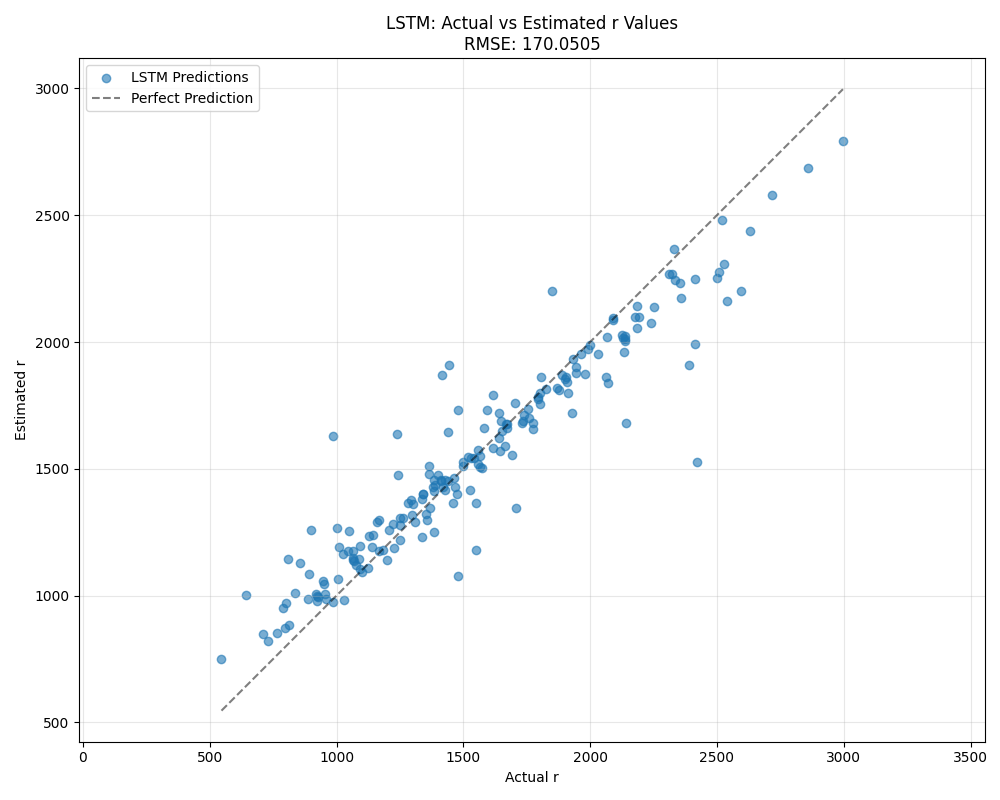
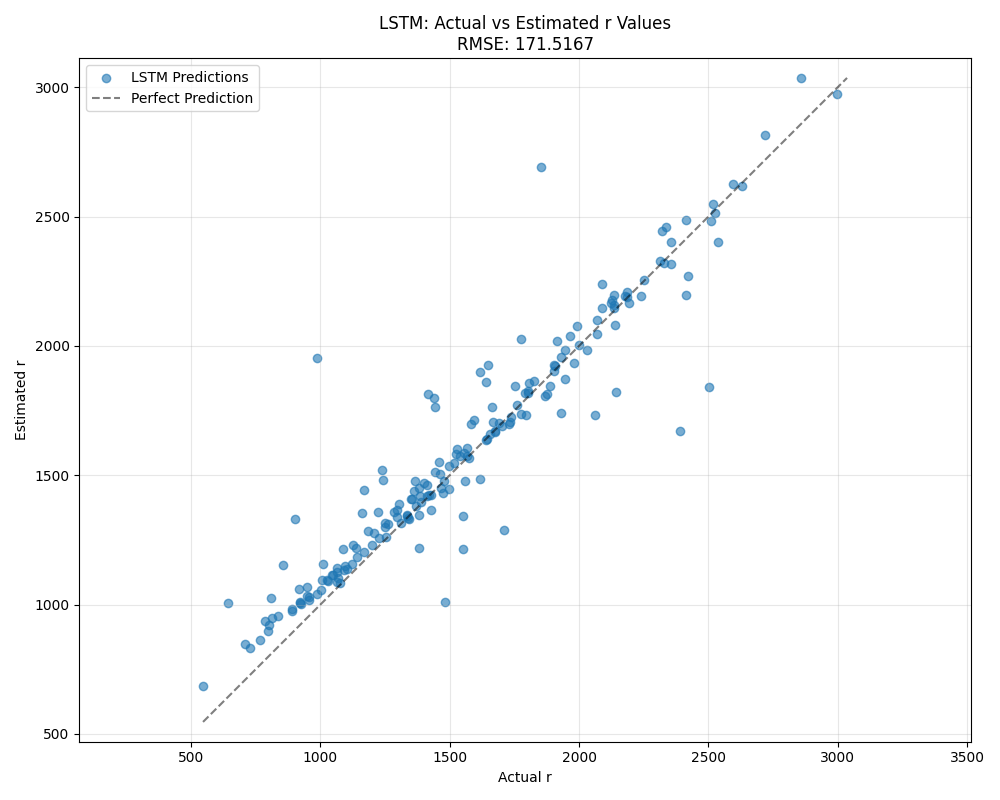
added reproducability

diff --git a/src/training/train_rnn.py b/src/training/train_rnn.py
@@ -8,6 +8,7 @@ from src.config import MODEL_CONFIG, TRAINING_OPTIONS
 from src.data.loader import load_cir_data
 import time
 import os
+import random
 
 def create_sequences(X, y, seq_length):
     """Create sequences for RNN training with overlap for better data utilization"""
@@ -21,11 +22,18 @@ def train_rnn_on_all(processed_dir):
     """Train RNN model on all available data"""
     print("\nTraining RNN model...")
     
-    # Set random seed for reproducibility
-    seed = int(time.time()) % 10000
-    torch.manual_seed(seed)
-    np.random.seed(seed)
-    print(f"Using random seed: {seed}")
+    # Set fixed random seed for reproducibility
+    random_seed = 42
+    print(f"Using fixed random seed: {random_seed}")
+    
+    # Set random seeds for all sources of randomness
+    torch.manual_seed(random_seed)
+    torch.cuda.manual_seed(random_seed)
+    torch.cuda.manual_seed_all(random_seed)  # For multi-GPU
+    torch.backends.cudnn.deterministic = True
+    torch.backends.cudnn.benchmark = False
+    np.random.seed(random_seed)
+    random.seed(random_seed)
     
     # Load data
     df = load_cir_data(processed_dir, filter_keyword='FCPR-D1')

diff --git a/src/training/train_lstm.py b/src/training/train_lstm.py
@@ -12,15 +12,16 @@ import random
 import time
 
 def train_lstm_on_all(processed_dir: str, batch_size: int = 32, epochs: int = 300, lr: float = 0.01):
-    # Generate random seed based on current time
-    random_seed = int(time.time() * 1000) % 100000
-    print(f"Using random seed: {random_seed}")
+    # Set fixed random seed for reproducibility
+    random_seed = 42
+    print(f"Using fixed random seed: {random_seed}")
     
-    # Set random seeds
+    # Set random seeds for all sources of randomness
     torch.manual_seed(random_seed)
     torch.cuda.manual_seed(random_seed)
-    torch.backends.cudnn.deterministic = False
-    torch.backends.cudnn.benchmark = True
+    torch.cuda.manual_seed_all(random_seed)  # For multi-GPU
+    torch.backends.cudnn.deterministic = True
+    torch.backends.cudnn.benchmark = False
     np.random.seed(random_seed)
     random.seed(random_seed)
     
